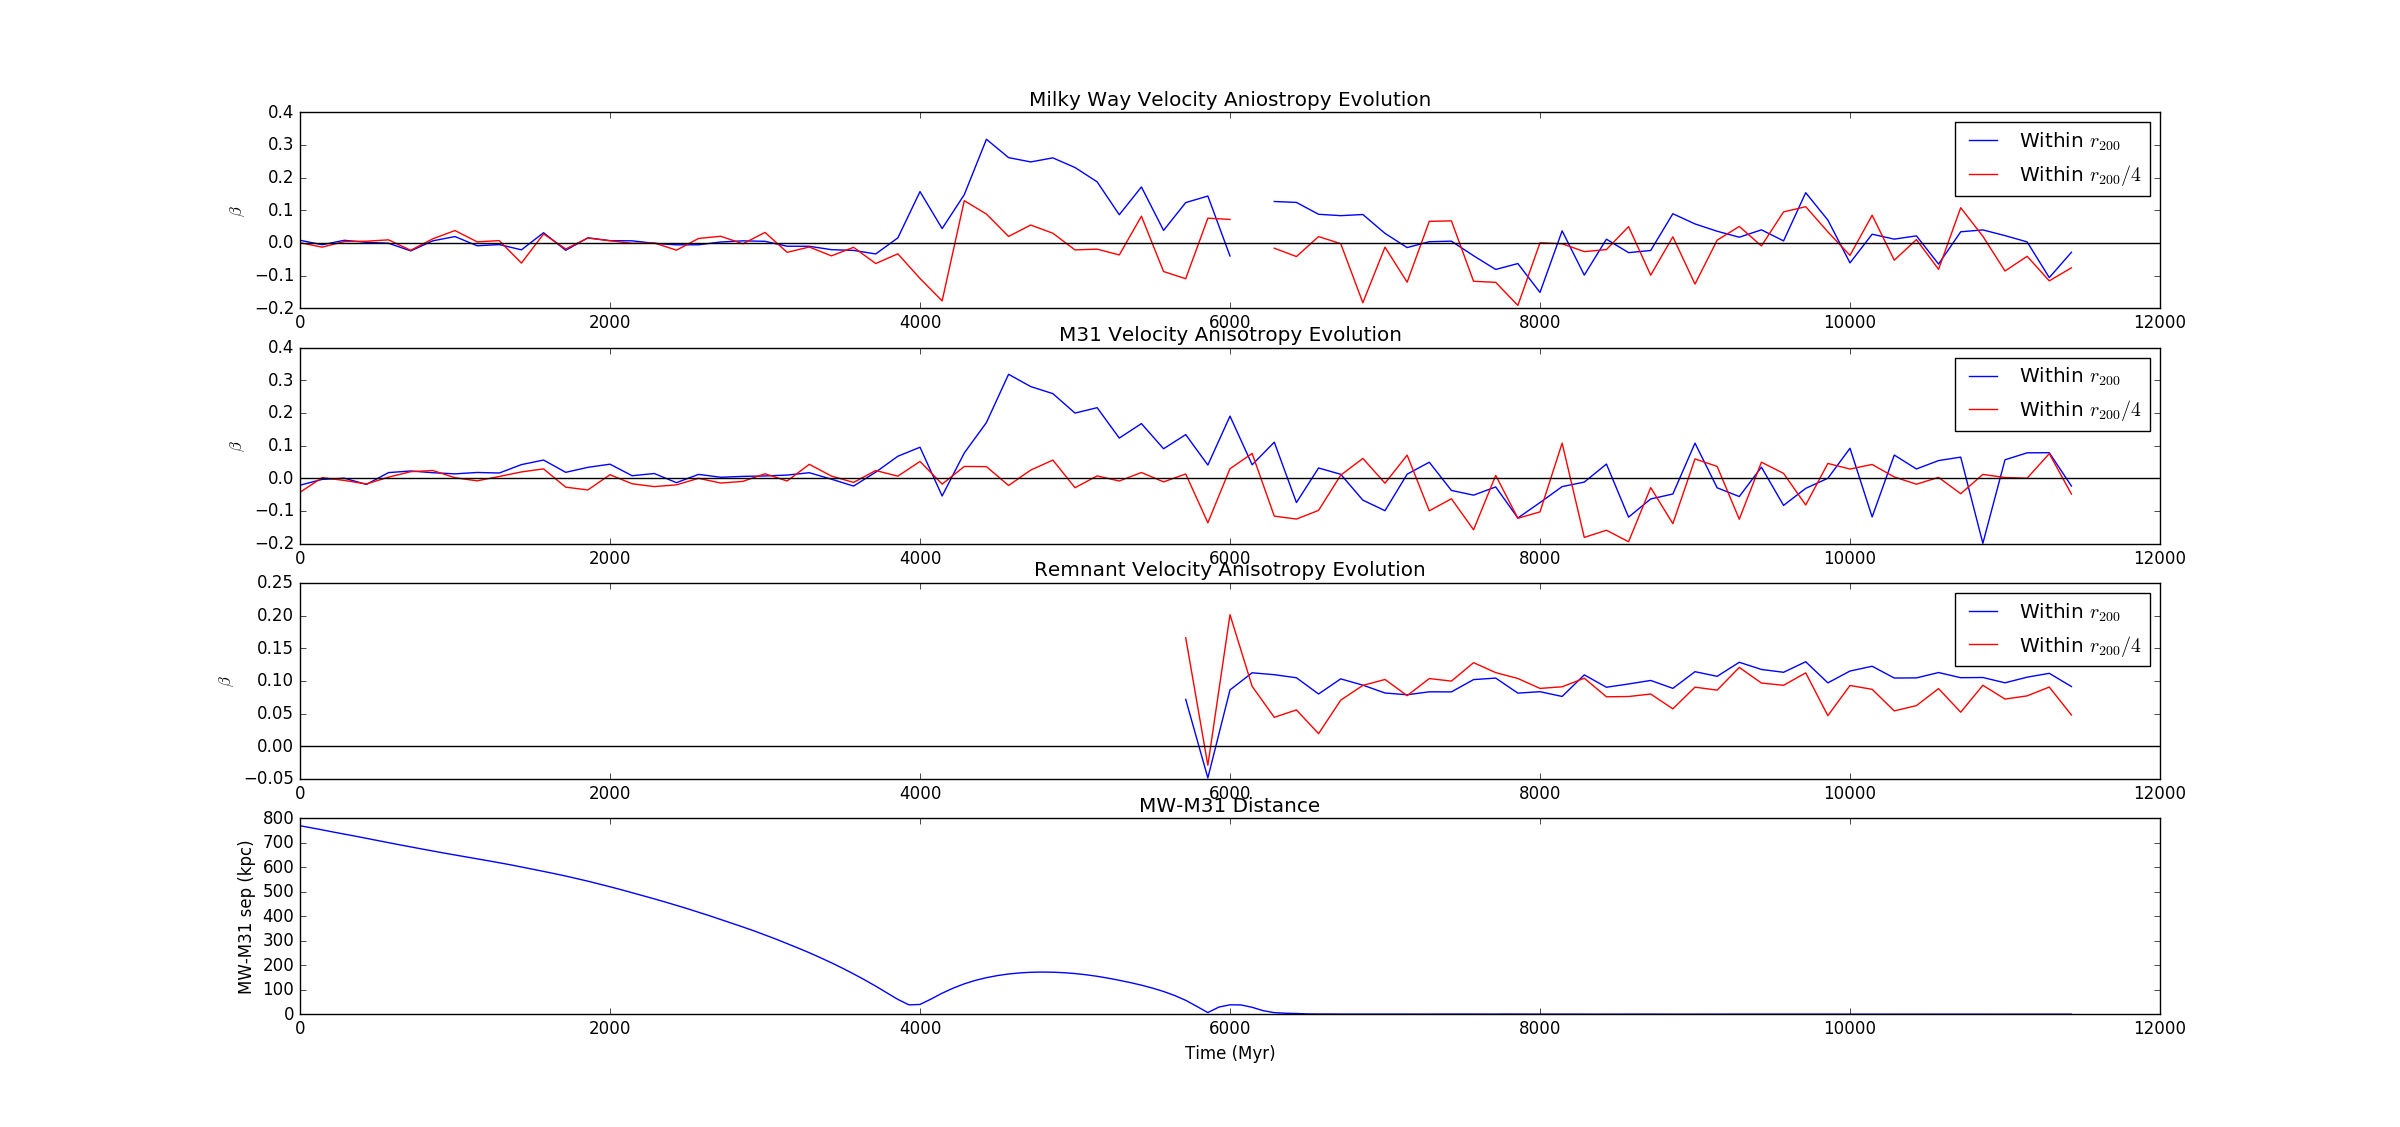
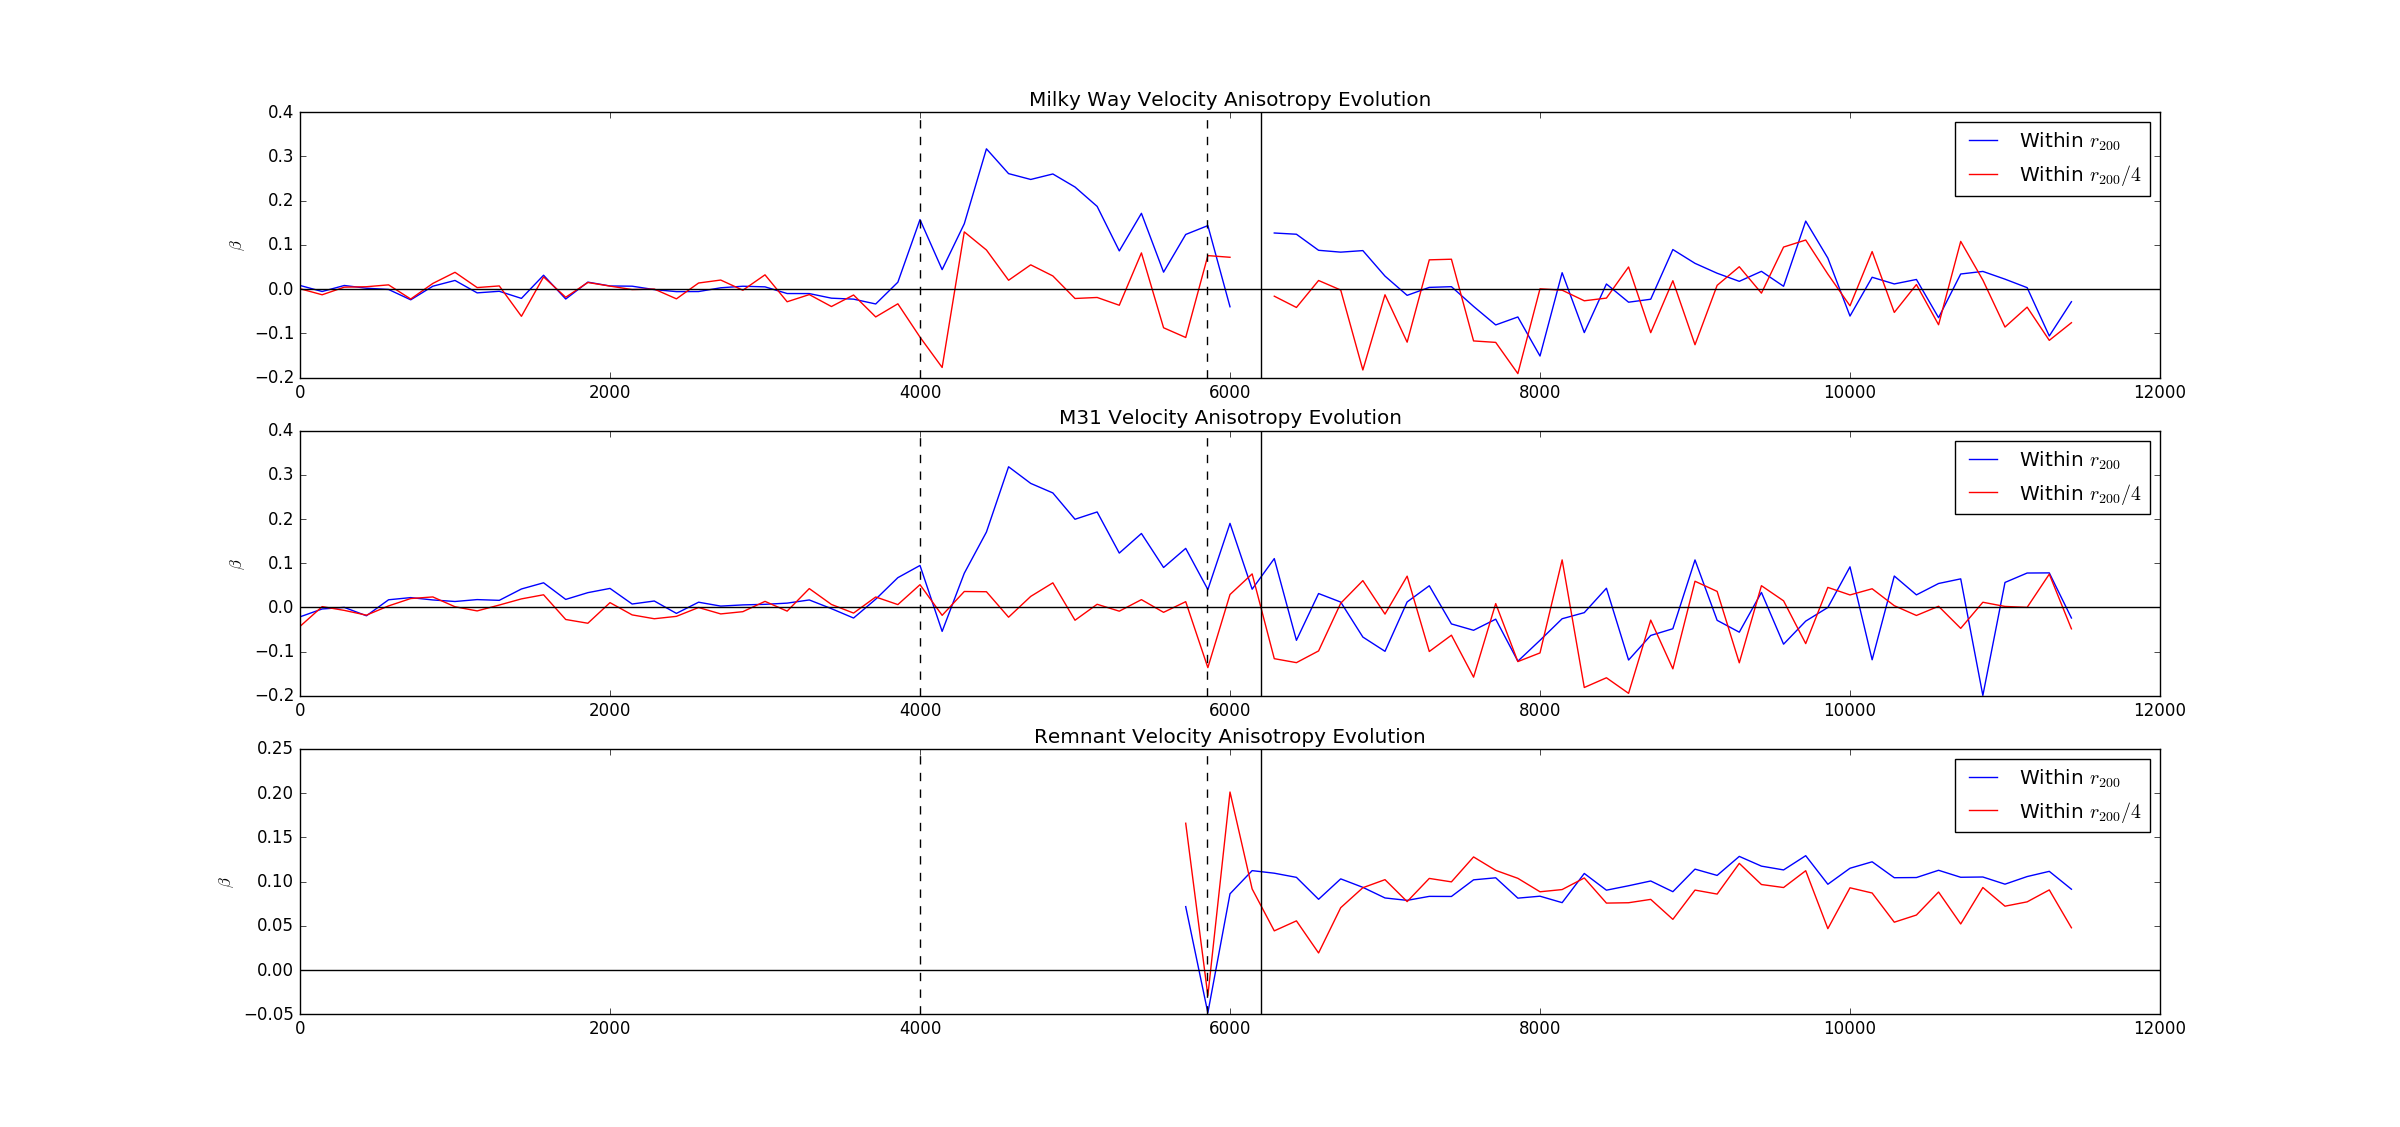
Updated figures for report

diff --git a/Project/velANI_plotting.py b/Project/velANI_plotting.py
@@ -16,35 +16,45 @@ sep_MW_M31 = ( (MW_pos['x'] - M31_pos['x'])**2 + (MW_pos['y'] - M31_pos['y'])**2
 # plotting 4 graphs, top is milky way va, M31 va, remnant va, bottom is galaxy sep
 plt.figure(1)
 # MW
-plt.subplot(411)
+plt.subplot(311)
 plt.plot(MW_velANI['t'], MW_velANI['r200_velANI'], label='Within $r_{200}$')
 plt.plot(MW_velANI['t'], MW_velANI['qr200_velANI'], 'r', label='Within $r_{200}/4$')
 plt.ylabel('$\\beta$')
 plt.axhline(y=0, color='black')
+plt.axvline(x=4000, color='black', linestyle='--')
+plt.axvline(x=5850, color='black', linestyle='--')
+plt.axvline(x=6200, color='black', linestyle='-')
 plt.legend(loc='upper right')
-plt.title('Milky Way Velocity Aniostropy Evolution')
+plt.title('Milky Way Velocity Anisotropy Evolution')
 # M31
-plt.subplot(412)
+plt.subplot(312)
 plt.plot(M31_velANI['t'], M31_velANI['r200_velANI'], label='Within $r_{200}$')
 plt.plot(M31_velANI['t'], M31_velANI['qr200_velANI'], 'r', label='Within $r_{200}/4$')
 plt.ylabel('$\\beta$')
 plt.axhline(y=0, color='black')
+plt.axvline(x=4000, color='black', linestyle='--')
+plt.axvline(x=5850, color='black', linestyle='--')
+plt.axvline(x=6200, color='black', linestyle='-')
 plt.legend(loc='upper right')
 plt.title('M31 Velocity Anisotropy Evolution')
 # Remnant
-plt.subplot(413)
+plt.subplot(313)
 plt.plot(MWM31_velANI['t'][40:], MWM31_velANI['r200_velANI'][40:], label='Within $r_{200}$') # only plot after merger
 plt.plot(MWM31_velANI['t'][40:], MWM31_velANI['qr200_velANI'][40:], 'r', label='Within $r_{200}/4$')
 plt.ylabel('$\\beta$')
 plt.axhline(y=0, color='black')
+plt.axvline(x=4000, color='black', linestyle='--')
+plt.axvline(x=5850, color='black', linestyle='--')
+plt.axvline(x=6200, color='black', linestyle='-')
 plt.legend(loc='upper right')
 plt.xlim(0, 12000)
 plt.title('Remnant Velocity Anisotropy Evolution')
+'''
 # MW and M31 separation
 plt.subplot(414)
 plt.plot(MW_pos['t'], sep_MW_M31)
 plt.xlabel('Time (Myr)')
 plt.ylabel('MW-M31 sep (kpc)')
 plt.title('MW-M31 Distance')
-
+'''
 plt.show()

diff --git a/Project/SpinPlotting.py b/Project/SpinPlotting.py
@@ -19,32 +19,42 @@ sep_MW_M31 = ( (MW_pos['x'] - M31_pos['x'])**2 + (MW_pos['y'] - M31_pos['y'])**2
 
 plt.figure(1)
 # MW
-plt.subplot(411)
+plt.subplot(311)
 plt.plot(MW_s200['t'], MW_s200['spin'], label='Within $r_{200}$')
 plt.plot(MW_qs200['t'], MW_qs200['spin'], 'r', label='Within $r_{200}/4$')
 plt.ylabel("Spin $\lambda'$")
+plt.axvline(x=4000, color='black', linestyle='--')
+plt.axvline(x=5850, color='black', linestyle='--')
+plt.axvline(x=6200, color='black', linestyle='-')
 plt.legend(loc='upper left')
 plt.title('MW Spin Evolution - Within $r_{200}$')
 # M31
-plt.subplot(412)
+plt.subplot(312)
 plt.plot(M31_s200['t'], M31_s200['spin'], label='Within $r_{200}$')
 plt.plot(M31_qs200['t'], M31_qs200['spin'], 'r', label='Within $r_{200}/4$')
 plt.ylabel("Spin $\lambda'$")
+plt.axvline(x=4000, color='black', linestyle='--')
+plt.axvline(x=5850, color='black', linestyle='--')
+plt.axvline(x=6200, color='black', linestyle='-')
 plt.legend(loc='upper left')
 plt.title('M31 Spin Evolution - Within $r_{200}$')
 # Remnant
-plt.subplot(413)
+plt.subplot(313)
 plt.plot(MWM31_s200['t'][40:], MWM31_s200['spin'][40:], label='Within $r_{200}$') #only plot after galaxies merge
 plt.plot(MWM31_qs200['t'][40:], MWM31_qs200['spin'][40:], 'r', label='Within $r_{200}/4$')
 plt.xlim(0, 12000)
 plt.ylabel("Spin $\lambda'$")
+plt.axvline(x=4000, color='black', linestyle='--')
+plt.axvline(x=5850, color='black', linestyle='--')
+plt.axvline(x=6200, color='black', linestyle='-')
 plt.legend(loc='upper left')
 plt.title('Remnant Spin Evolution - Within $r_{200}$')
+'''
 # MW and M31 separation
 plt.subplot(414)
 plt.plot(MW_pos['t'], sep_MW_M31)
 plt.xlabel('Time (Myr)')
 plt.ylabel('MW-M31 sep (kpc)')
 plt.title('MW-M31 Distance')
-
+'''
 plt.show()
